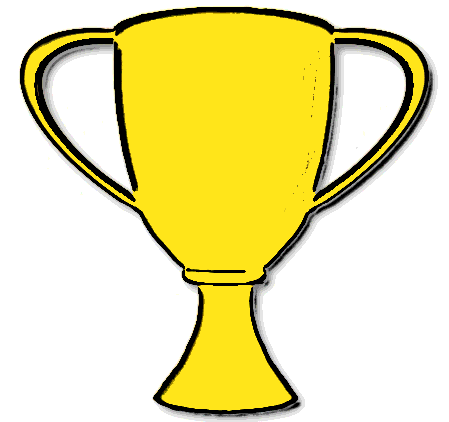
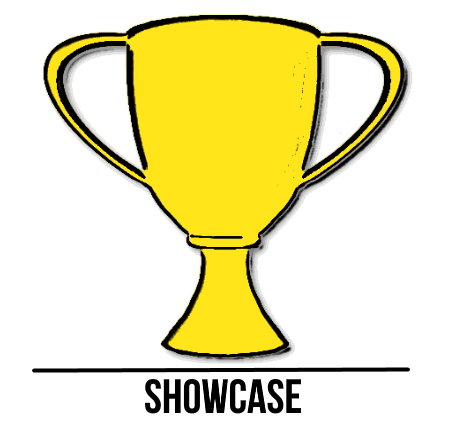
Added ride & profile buttons / polished homescreen

Changed region(s): [[0.0312, 0.0, 0.9978, 1.0]]

diff --git a/index.html b/index.html
@@ -1,7 +1,7 @@
 <!DOCTYPE html>
 <html lang="en">
 	<head>
-		<title>HD Web testapp</title>
+		<title>HD testapp</title>
 		<meta name="viewport" content="width=device-width, initial-scale=1">
 		<link rel="stylesheet" type="text/css" href="style.css">
 		<script src="js.js"></script>
@@ -11,7 +11,7 @@
 
 		<!--Welcome Text-->
 		<div class="welcome_text">
-			<p><i>This is a test app, created by Sean Kramer in collaboration with Nicholas Hooyman, for presentation to the HD Motor Company</i></p>
+			<p><i>Build 0.3</i></p>
 		</div>
 		
 		<hr>
@@ -19,8 +19,21 @@
 		<!--Showcase-->
 		<a href="showcase.html">
 			<div class="showcase">
-				<img src="trophy.png" alt="trophy" height="100" width="100">
-				<p>Showcase</p>
+				<img src="trophy_alt.png" alt="trophy" height="20%" width="25%">
+			</div>
+		</a>
+		
+		<!--Ride-->
+		<a href="ride.html">
+			<div class="ride">
+				<img src="ride.png" alt="ride" height="17.5%" width="17.5%">
+			</div>
+		</a>
+		
+		<!--Profile-->
+		<a href="profile.html">
+			<div class="profile">
+				<img src="profile.png" alt="profile" height="20%" width="25%">
 			</div>
 		</a>
 	

diff --git a/style.css b/style.css
@@ -7,11 +7,10 @@
     -ms-user-select: none;
     user-select: none;
 }
-/*welcome text settings*/
+/*Info text settings*/
 .welcome_text {
 	margin: auto;
 	width: 50%;
-	padding: 5px;
 	text-align: center;
 }
 /*showcase settings*/
@@ -20,7 +19,22 @@
 	display: block;
 	margin-left: auto;
 	margin-right: auto;
-	
+	padding-bottom: 15px;
+}
+/*ride settings*/
+.ride {
+	text-align: center;
+	display: block;
+	margin-left: auto;
+	margin-right: auto;
+}
+/*profile settings*/
+.profile {
+	text-align: center;
+	display: block;
+	margin-left: auto;
+	margin-right: auto;
+	padding-top: 60px;
 }
 
 
@@ -32,11 +46,7 @@
 /*Whole page settings*/
 hr {
 	display: block;
-	width: 50%;
+	width: 100%;
 	border-style: inset;
 	border-width: 2px;
-}
-a:link {
-	text-decoration: none;
-	color: black;
 }

diff --git a/ride.html b/ride.html
@@ -1,18 +1,20 @@
 <!DOCTYPE html>
 <html lang="en">
 	<head>
-		<title>HD Web testapp - Ride</title>
+		<title>HD testapp</title>
 		<meta name="viewport" content="width=device-width, initial-scale=1">
-		<link rel="stylesheet" type="text/css" href="style_ride.css">
-		<script src="js_ride.js"></script>
+		<link rel="stylesheet" type="text/css" href="style.css">
+		<script src="js.js"></script>
 	</head>
 	
 	<body>
-		
-		<!--Buttons-->
-		<div class="home">
-			<button type="button" class="btn-warning btn-lg btn-block">USELESS BUTTON</button>
+
+		<!--Welcome Text-->
+		<div class="welcome_text">
+			<p><i>Build 0.3</i></p>
 		</div>
-	
+		
+		<hr>
+		
 	</body>
 </html>

diff --git a/profile.html b/profile.html
@@ -1,10 +1,10 @@
 <!DOCTYPE html>
 <html lang="en">
 	<head>
-		<title>HD testapp - Showcase</title>
+		<title>HD testapp</title>
 		<meta name="viewport" content="width=device-width, initial-scale=1">
-		<link rel="stylesheet" type="text/css" href="style_showcase.css">
-		<script src="js_showcase.js"></script>
+		<link rel="stylesheet" type="text/css" href="style.css">
+		<script src="js.js"></script>
 	</head>
 	
 	<body>
